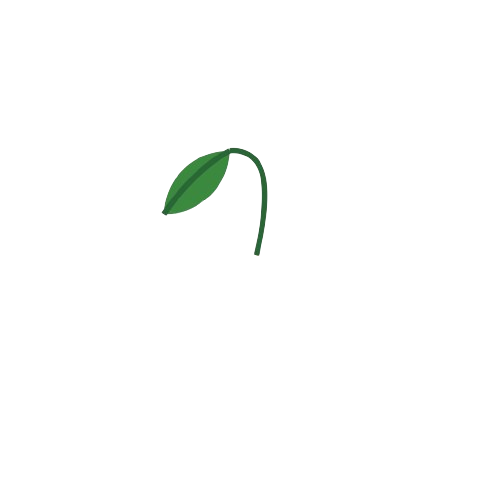
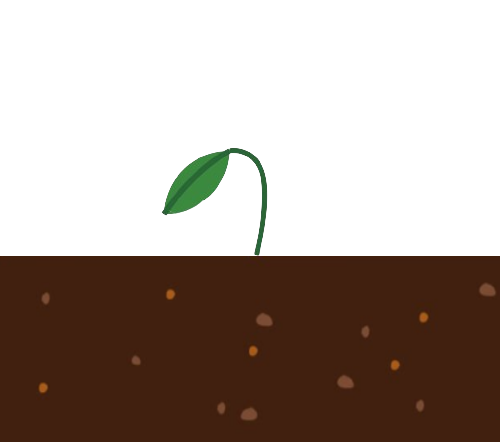
단계별사진 연동 완료

diff --git a/src/components/main/plantingbox.js b/src/components/main/plantingbox.js
@@ -13,7 +13,7 @@ import FlowerPlantFail from "./flowerplantfail"; // ✅ 실패 모달 추가
 
 
 const PlantingBox = ({ selectedCategory, selectedFlower, isRunning, setIsRunning }) => {
-  const [time, setTime] = useState(900); // ✅ 900초 = 15분 (초 단위로 변경)
+  const [time, setTime] = useState(60); // ✅ 900초 = 15분 (초 단위로 변경)
   const [currentStageIndex, setCurrentStageIndex] = useState(0);
   const [currentFlowerImage, setCurrentFlowerImage] = useState(soilImage);
   const [showSuccessModal, setShowSuccessModal] = useState(false); // ✅ 성공 모달 상태 추가
@@ -24,6 +24,7 @@ const PlantingBox = ({ selectedCategory, selectedFlower, isRunning, setIsRunning
   return (
     <section className="planting-box">
       <div className="planting-circle">
+        {/*<img src={soilImage} alt="흙" className="soil-image" />*/}
         <img src={currentFlowerImage} alt="꽃 성장 단계" className="plant-image" />
       </div>
 

diff --git a/src/styles/mainpage.css b/src/styles/mainpage.css
@@ -252,13 +252,15 @@ html, body {
 .plant-image {
     position: relative;
     z-index: 2;
-    width: 80px;
+    padding-top: 70px;
+    width: 170px;
     height: auto;
 }
 
+
 /* 🌱 흙 이미지 */
 .soil-container {
-    position: absolute;
+    position: relative;
     bottom: 0;
     left: 50%;
     transform: translateX(-50%);
@@ -270,11 +272,18 @@ html, body {
     z-index: 1;
 }
 
+/* 🌱 흙 이미지: 항상 바닥에 고정 */
 .soil-image {
-    width: 100%;
+    position: relative;
+    bottom: 0;
+    left: 50%;
+    padding-top: 150px;
+    transform: translateX(-50%);
+    width: 200px; 
     height: auto;
-    object-fit: cover;
+    z-index: 1;  /* 가장 아래 배치 */
 }
+
 .time-text {
     font-family: "Korail Round Gothic Light", sans-serif; /* ✅ 폰트 변경 */
     font-size: 21px; /* ✅ 지정된 폰트 크기로 변경 */
